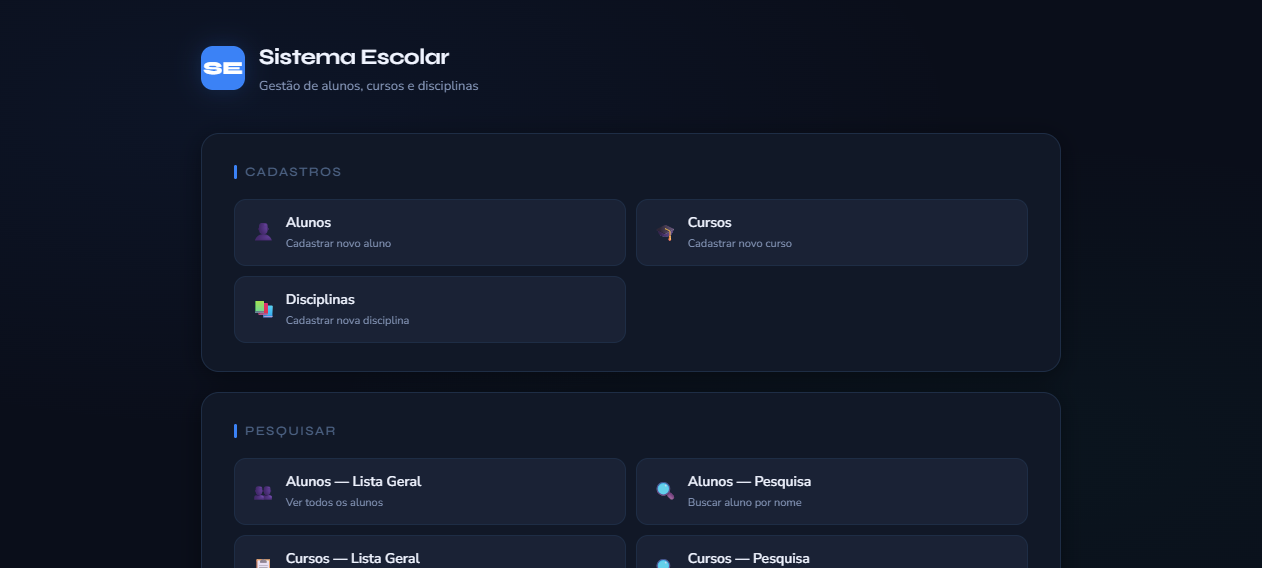
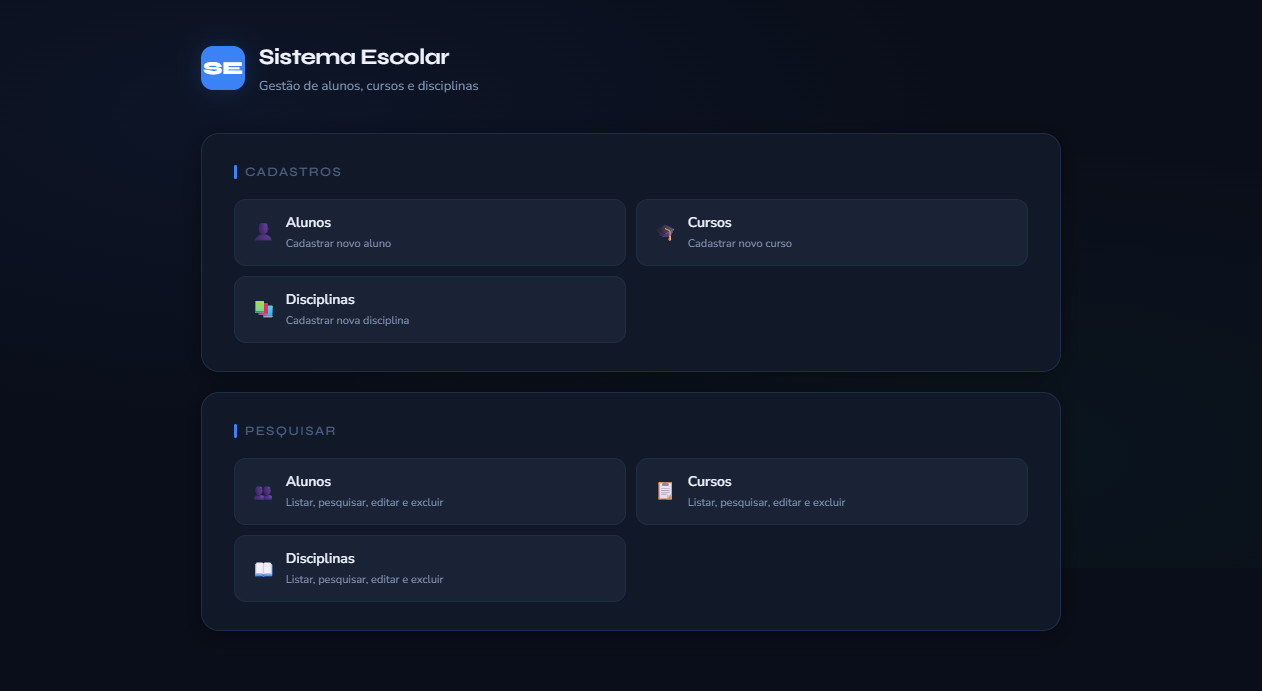
docs: atualiza screenshots com pesquisa, acoes e cursos N:N

diff --git a/README.md b/README.md
@@ -23,9 +23,13 @@ Permite cadastrar e consultar alunos, cursos e disciplinas através de uma inter
 |---|---|
 | ![Menu principal](screenshots/menu-principal.png) | ![Cadastro de alunos](screenshots/cadastro-aluno.png) |
 
-| Lista geral de alunos | Lista geral de cursos |
+| Lista de alunos (com editar e excluir) | Pesquisa por nome |
 |---|---|
-| ![Lista de alunos](screenshots/lista-alunos.png) | ![Lista de cursos](screenshots/lista-cursos.png) |
+| ![Lista de alunos](screenshots/lista-alunos.png) | ![Pesquisa de alunos](screenshots/pesquisa-alunos.png) |
+
+| Cadastro de cursos (disciplinas N:N) | Lista de cursos |
+|---|---|
+| ![Cadastro de cursos](screenshots/cadastro-curso.png) | ![Lista de cursos](screenshots/lista-cursos.png) |
 
 ---
 
